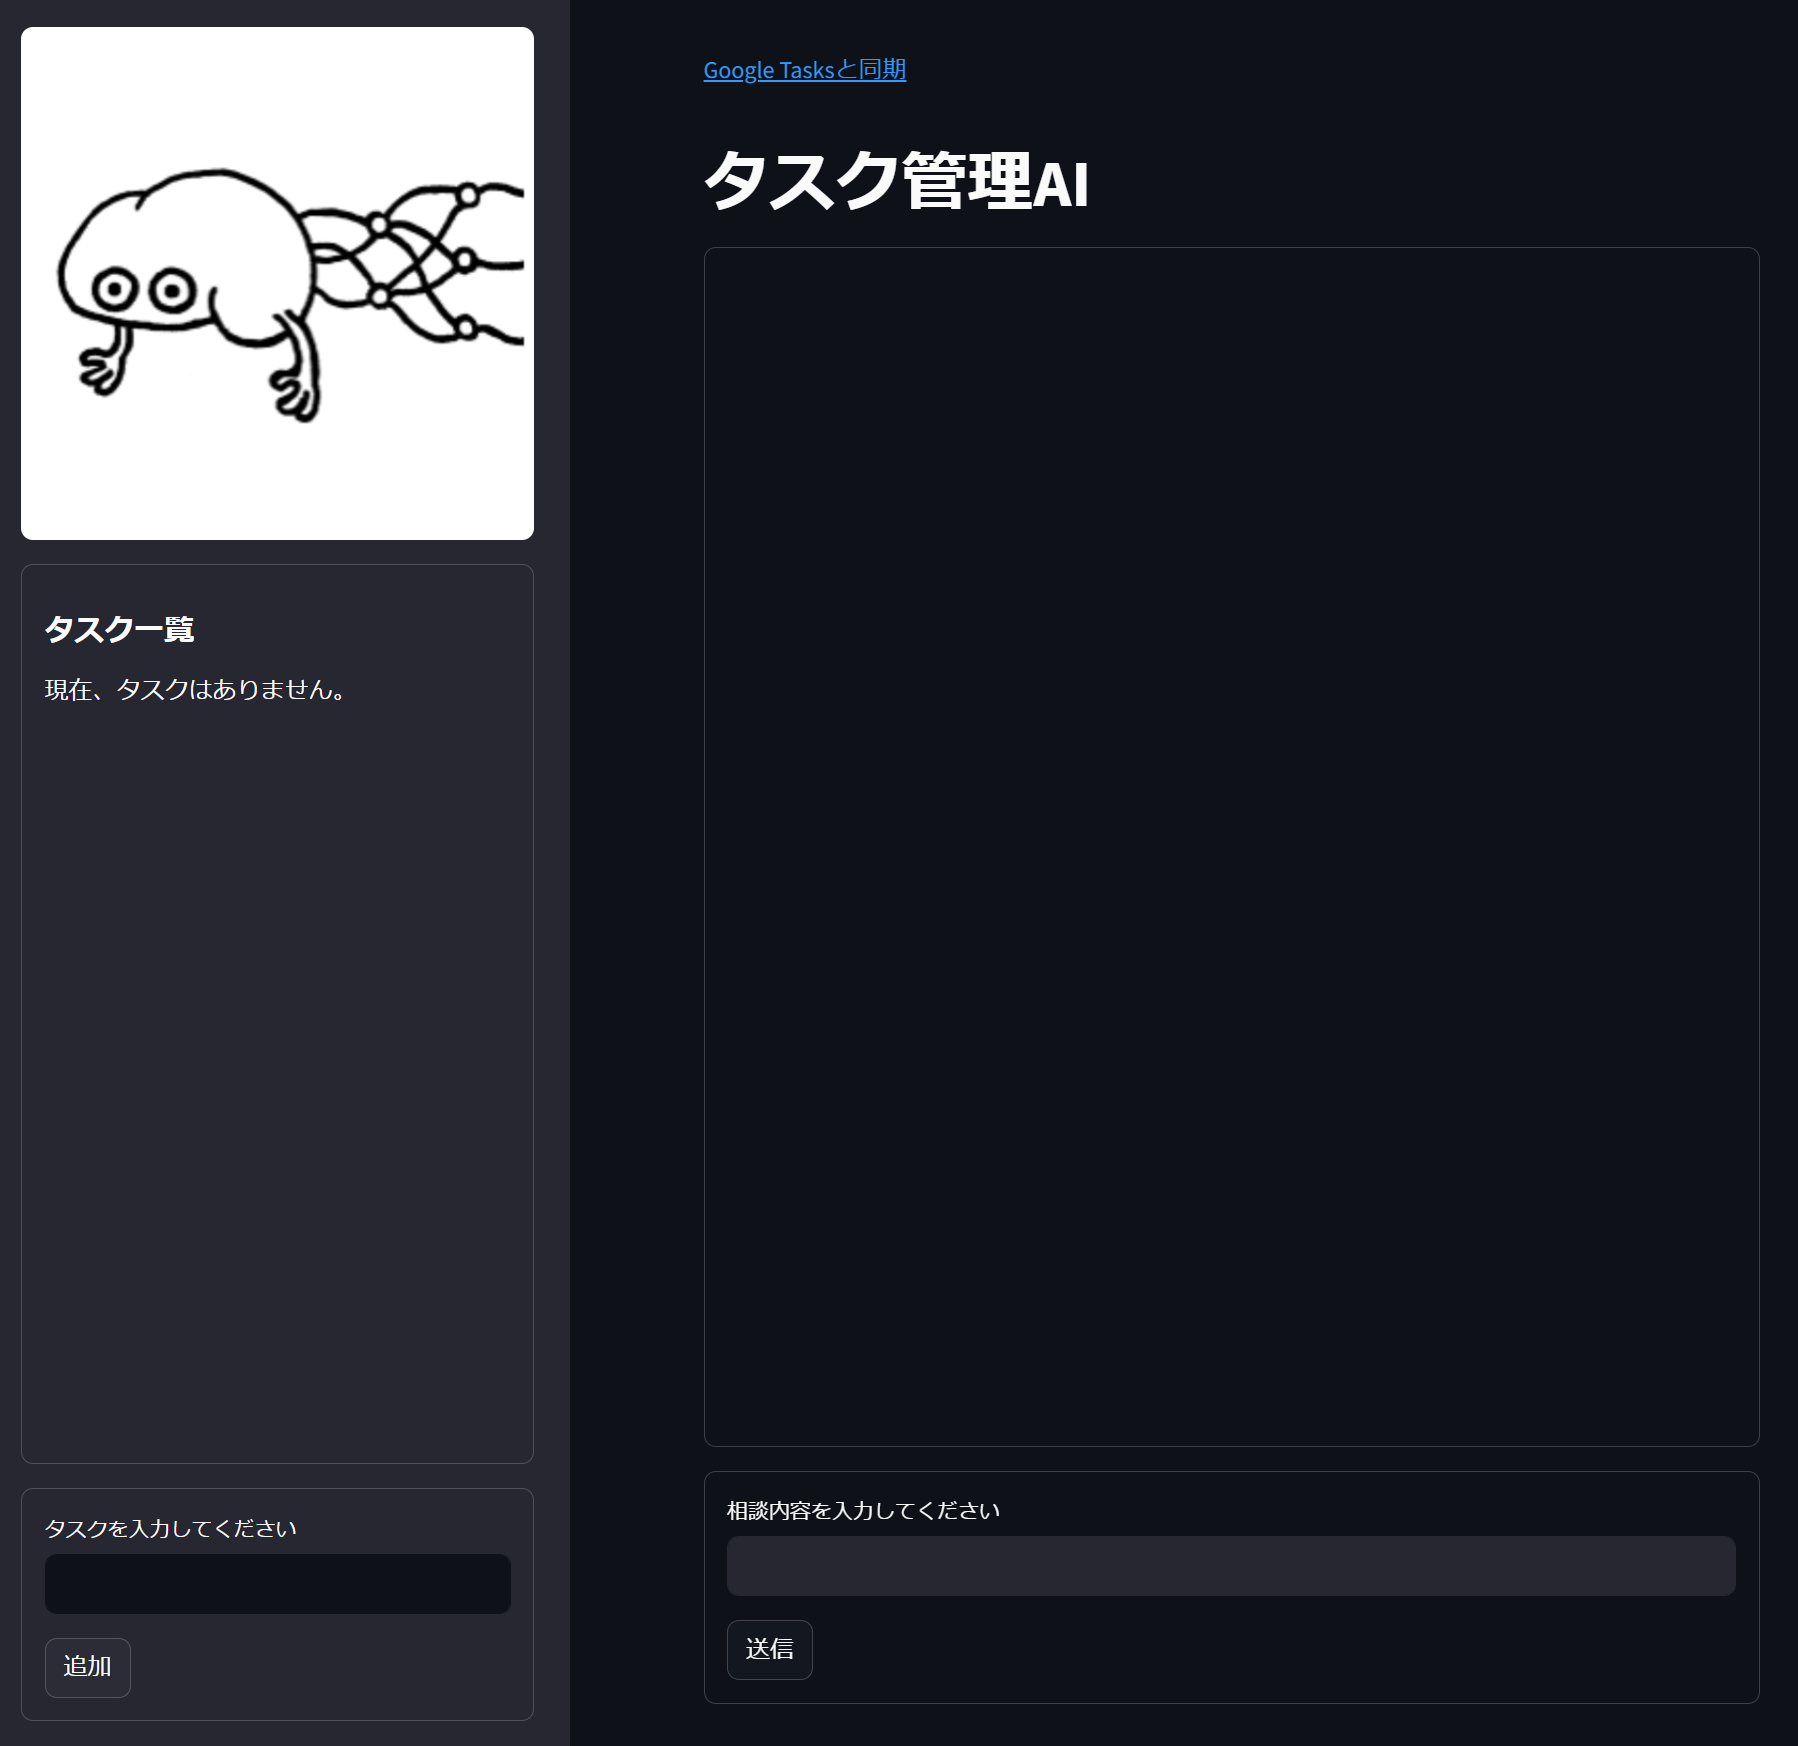
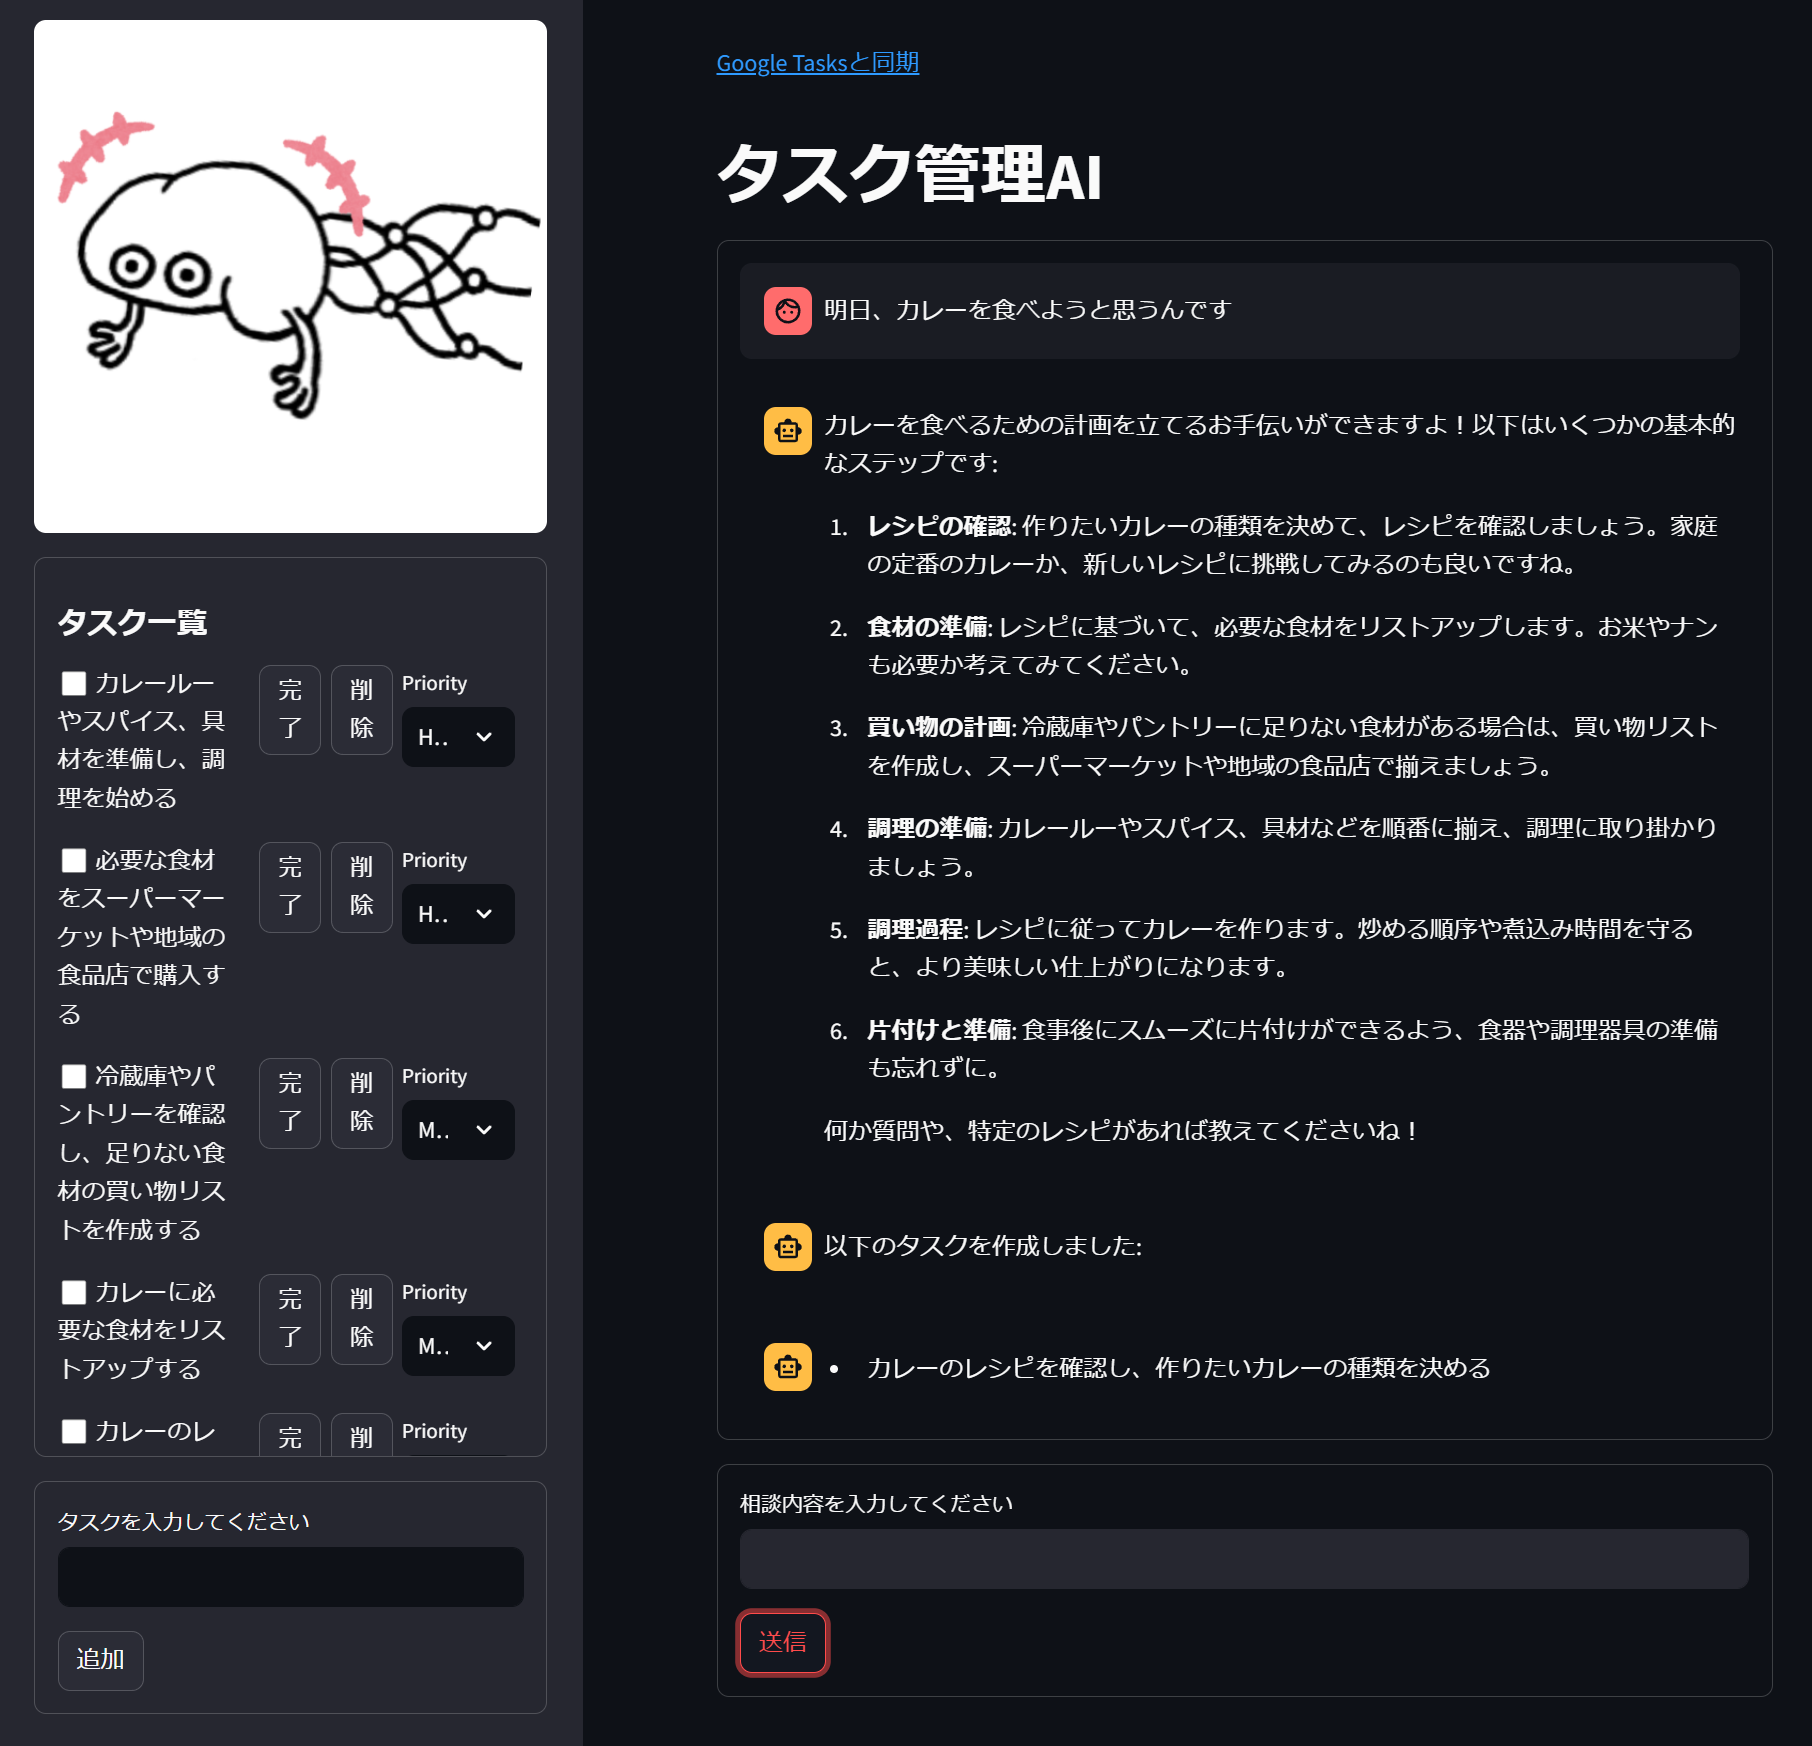
READMEを加筆

diff --git a/README.md b/README.md
@@ -1,6 +1,10 @@
 # タスク管理AI
 [KaiRA生成AIハッカソン2025](https://kaira-thesis-reading.connpass.com/event/347239/)で制作したタスク管理チャットボットです。
 
+チャットから自動でタスクを抽出し、優先度を評価します。
+
+現在のタスクを要約させたり、タイムスケジュールを生成させたりすることも可能です。
+
 Google Tasks APIを用いて生成したタスクを同期することができます。
 
 ![実行画面のスクリーンショット](assets/images/screenshot.png)
